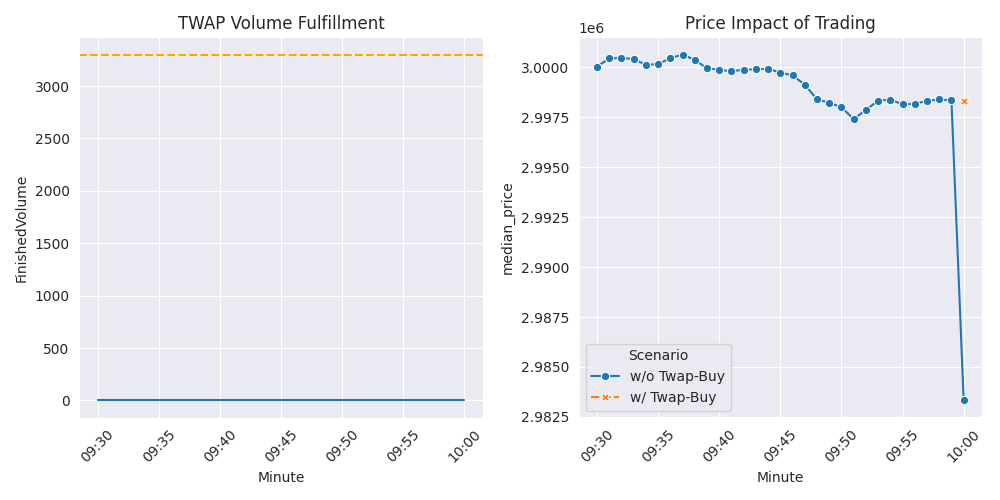
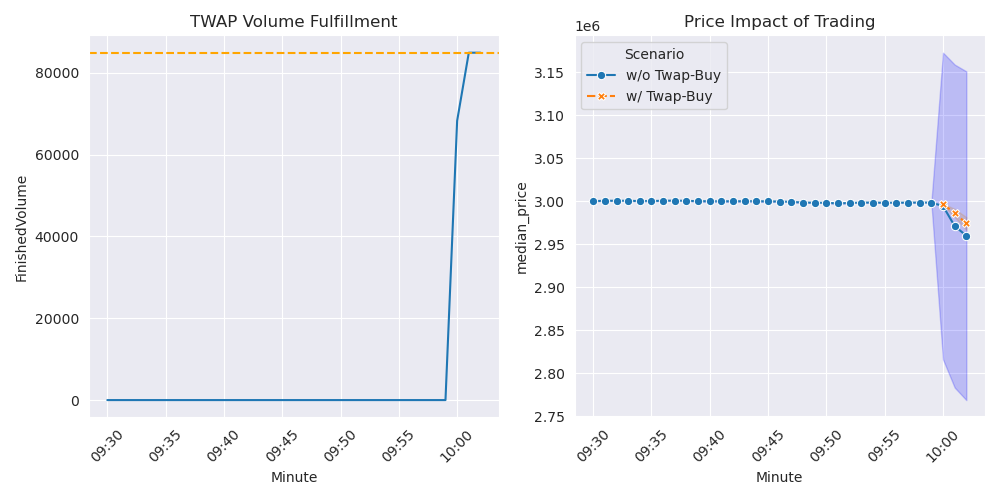
last

diff --git a/market_simulation/models/order_model.py b/market_simulation/models/order_model.py
@@ -43,23 +43,21 @@ class OrderTokenizer(nn.Module, PyTorchModelHubMixin):
     def forward(self, features: Tensor) -> Tensor:
         """Tokenize inputs."""
         
-        print("featuresfeaturesfeatures 1111111111111111111111")
-        print(features)
+
         
         batch_size = features.size(0)
         dtype = next(self.parameters()).dtype
         assert features.size(1) == self.num_max_orders * self.dim_order
         features = features.reshape((batch_size, self.num_max_orders, self.dim_order))
         features = features.reshape((batch_size * self.num_max_orders, self.dim_order))
-        print("featuresfeaturesfeatures 22222222222222222222222222222222222")
-        print(features)
+
         (order_type, price_level, pred_order_volume, order_interval) = self.split_order_index(
             features[:, 0],
             self.num_bins_price_level,
             self.num_bins_pred_order_volume,
             self.num_bins_order_interval,
         )
-        print(f"order_type is {order_type}")
+
         embs = [
             self.emb_order_type(order_type),
             self.emb_price_level(price_level),
@@ -82,9 +80,7 @@ class OrderTokenizer(nn.Module, PyTorchModelHubMixin):
         num_bins_order_interval: int = 16,
     ) -> tuple[Tensor, Tensor, Tensor, Tensor]:
         """Split order index into order_type, price level, pred_order_volume, and order_interval."""
-        print(f"order_index is {order_index}")
-        print(f"num_bins_price_level is {num_bins_price_level}")
-        print(f"num_bins_order_interval is {num_bins_order_interval}")
+
         order_type = order_index // (num_bins_price_level * num_bins_pred_order_volume * num_bins_order_interval)
         price_level = (order_index % (num_bins_price_level * num_bins_pred_order_volume * num_bins_order_interval)) // (
             num_bins_pred_order_volume * num_bins_order_interval

diff --git a/market_simulation/models/utils_order_model.py b/market_simulation/models/utils_order_model.py
@@ -82,12 +82,12 @@ class RawMessagesTokenDataset(Dataset):
         #print(self.message_files)
 
         for file_idx, msg_path in enumerate(self.message_files):
-
-            n_rows = self._count_rows(msg_path)
-            print(f"n_rows {n_rows}")
-
+        
+            feats = self._load_features(file_idx)
+            n_rows = len(feats)
+            print(f"feature rows {n_rows}")
+        
             n_windows = max(0, n_rows - seq_len + 1)
-
             for start in range(n_windows):
                 self.index.append((file_idx, start))
 
@@ -118,16 +118,21 @@ class RawMessagesTokenDataset(Dataset):
 
         df = from_messages_to_features(msg_path, snap_path)
     
+        print("dfffff")
+        print(df)
+    
         # rename columns to f1 -> f14
         cols = df.columns.tolist()
         start = cols.index("f0")
         for i in range(start + 1, len(cols)):
             cols[i] = f"f{i - start}"
         df.columns = cols
+        print("df.columns")
+        print(df.columns)
 
         feature_cols = [f"f{i}" for i in range(15)]  # f0..f14
         # convert to numpy [N,15]
-        feats = df[feature_cols].to_numpy(dtype=np.int16, copy=True)
+        feats = df[feature_cols].to_numpy(dtype=np.int32, copy=True)
 
         del df
 
@@ -138,6 +143,9 @@ class RawMessagesTokenDataset(Dataset):
         if len(self.cache) > self.cache_size:
             self.cache.popitem(last=False)
 
+        print("featsfeats")
+        print(feats)
+
         return feats
 
     def __len__(self):
@@ -146,11 +154,8 @@ class RawMessagesTokenDataset(Dataset):
     def __getitem__(self, idx):
 
         file_idx, start = self.index[idx]
-
         feats = self._load_features(file_idx)
-
         seq = feats[start : start + self.seq_len]
-
         return torch.tensor(seq, dtype=torch.long)
 
 

diff --git a/market_simulation/examples/market_impact.py b/market_simulation/examples/market_impact.py
@@ -284,7 +284,7 @@ def run_simulation(
         results = [execute_single_simulation(task) for task in tasks]
     else:
         ctx = mp.get_context("spawn")
-        with ctx.Pool(processes=num_rollouts) as pool:
+        with ctx.Pool(processes=min(4, os.cpu_count() - 1)) as pool:
             results = pool.map(execute_simulation_with_error_handling, tasks)
 
     # Calculate target volume for TWAP agent based on average volume
@@ -312,8 +312,8 @@ def run_simulation(
         trading_results = [execute_single_simulation(task) for task in trading_tasks]
     else:
         ctx = mp.get_context("spawn")
-        with ctx.Pool(processes=num_rollouts) as pool:
-            results = pool.map(execute_simulation_with_error_handling, tasks)
+        with ctx.Pool(processes=min(4, os.cpu_count() - 1)) as pool:
+            trading_results = pool.map(execute_simulation_with_error_handling, trading_tasks)
 
     # Save all simulation results
     pkl_utils.save_pkl_zstd((tasks + trading_tasks, results + trading_results), rollouts_path)
@@ -566,7 +566,7 @@ if __name__ == "__main__":
                 symbol="000000",
                 start_time=Timestamp("2024-01-01 09:30:00"),
                 init_end_time=Timestamp("2024-01-01 10:00:00"),
-                end_time=Timestamp("2024-01-01 10:05:00"),
+                end_time=Timestamp("2024-01-01 10:02:30"),
                 num_rollouts=num_rollouts,
                 rollouts_path=rollouts_path,
                 seed_for_init_state=seed,

diff --git a/custom_code/training/order_model/train_Order_Model_hypersearch.py b/custom_code/training/order_model/train_Order_Model_hypersearch.py
@@ -58,6 +58,11 @@ class OrderBatchDataModule(pl.LightningDataModule):
             seq_len=self.seq_len,
             cache_size=self.cache_size,
         )
+    
+    def collate_tokens(self, batch):
+        batch = [x.contiguous().clone() for x in batch]
+        return torch.stack(batch, dim=0)
+
 
 
     @staticmethod
@@ -72,6 +77,7 @@ class OrderBatchDataModule(pl.LightningDataModule):
             self._train,
             batch_size=self.batch_size,
             shuffle=True,
+            collate_fn=self.collate_tokens,
             num_workers=self.num_workers,
             pin_memory=True,
             drop_last=True,
@@ -88,6 +94,7 @@ class OrderBatchDataModule(pl.LightningDataModule):
             self._val,
             batch_size=self.batch_size,
             shuffle=True,
+            collate_fn=self.collate_tokens,
             num_workers=self.num_workers,
             worker_init_fn=self.seed_worker,
             generator=g,

diff --git a/custom_code/utils_general.py b/custom_code/utils_general.py
@@ -147,21 +147,3 @@ end = time.perf_counter()
 elapsed = end - start__
 print(f"Elapsed time: {elapsed} seconds")
 
-
-
-# et, une fois que tu as une putain d'image ?
-
-#     ==>
-
-
-
-
-
-
-
-####################################################################################################################
-###### SORTIR DE LA BOUCLE:                                                            #############################
-##########   exemple: pour le stats.py                                                 #############################
-######################     en gros tu veux récup, un order_index à chaque fois,
-#########################      simple: le features PUIS,    order_model() en batch sur le
-####################################################################################################################

diff --git a/market_simulation/rollout/order_model_actor.py b/market_simulation/rollout/order_model_actor.py
@@ -21,10 +21,12 @@ class OrderModelActor:
         self.temperature = C.model_serving.temperature
 
     def predict(self, arr: npt.NDArray[np.int32]) -> npt.NDArray[np.int32]:
-        x = torch.from_numpy(arr).cuda()
+        x = torch.from_numpy(arr.copy()).cuda()
         x = x.reshape((1, C.order_model.seq_len, C.order_model.token_dim))
 
         with torch.no_grad():
-            out = self.model.sample(x, self.temperature).int().cpu().reshape((1, -1)).numpy()
+            out = self.model.sample(x, self.temperature).int().cpu().numpy().reshape(-1)
+            #out = self.model.sample(x, self.temperature).int().cpu().reshape((1, -1)).numpy()
 
-        return out[0]
+        #return out[0]
+        return out.astype(np.int32)
